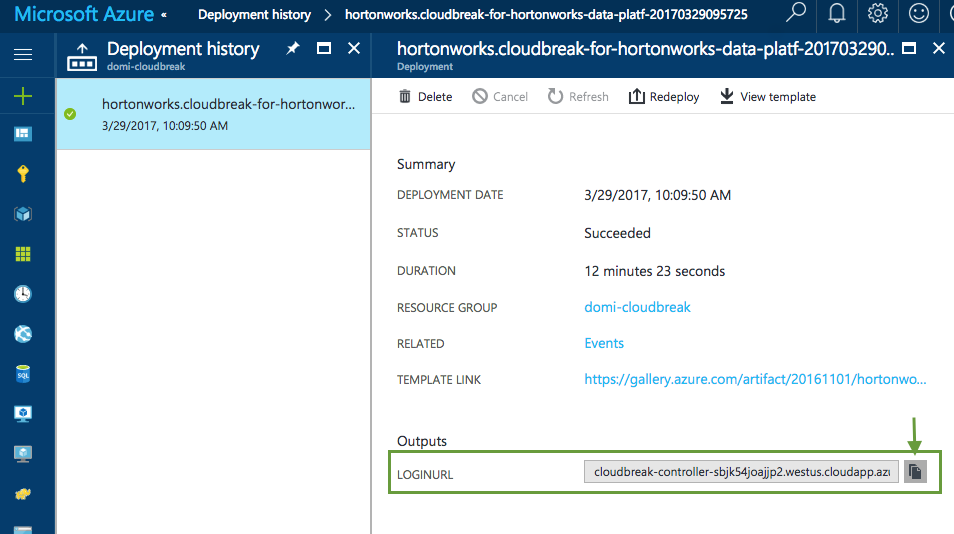
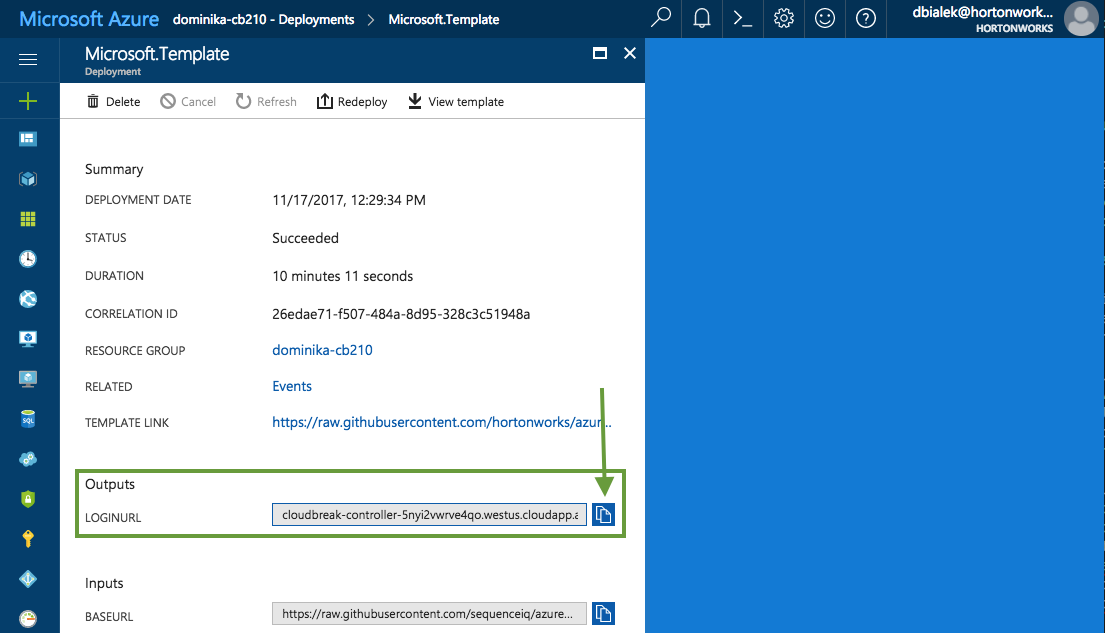
Updates

diff --git a/docs/images.md b/docs/images.md
@@ -43,10 +43,10 @@ This repository includes instructions and scripts to help you build custom image
 
 **(Option 1) Image Catalog on the Cloudbreak VM**
 
-Once you've built the custom images, create the `custom-image-catalog.json` file and save it on your Cloudbreak machine in the `/var/lib/cloudbreak-deployment/etc` directory. The etc directory does not exist by default so you must create it. For example:
+Once you've built the custom images, create the `custom-image-catalog.json` file and save it on your Cloudbreak machine in the `/var/lib/cloudbreak-deployment/etc` directory. For example:
 
-<pre>cd /var/lib/cloudbreak-deployment
-mkdir etc
+<pre>sudo su 
+cd /var/lib/cloudbreak-deployment/etc 
 vi custom-image-catalog.json</pre>
 
 The structure of the image catalog JSON file file and an example image catalog JSON file are provided below. 
@@ -201,15 +201,17 @@ Now that you have created your image catalog JSON file, register it with your Cl
 
 **Steps**
 
-1. On the Cloudbreak machine, navigate to the Cloudbreak deployment directory:  
-    cd /var/lib/cloudbreak-deployment    
+1. On the Cloudbreak machine, switch to the root user:  
+    `sudo su`  
+2. navigate to the Cloudbreak deployment directory:  
+    `cd /var/lib/cloudbreak-deployment`    
 2. Edit the Profile file:     
-    vi Profile      
+    `vi Profile`      
 2. Add `export CB_IMAGE_CATALOG_URL` to the file and set it to the location of your JSON file which declares your custom images. Its value can be:
     * A **URL** of a remote file that is reachable by Cloudbreak through HTTP/HTTPS or    
     * A **PATH** to the file, relative to the /var/lib/cloudbreak-deployment/etc directory on the Cloudbreak host. For example: `export CB_IMAGE_CATALOG_URL=custom-image-catalog.json`    
 3. Save the Profile file.  
-4. Restart Cloudbreak.
+4. Restart Cloudbreak using `cbd restart`.
 
 
 ### Select a Custom Image When Creating a Cluster
@@ -231,7 +233,7 @@ In the CLI, to use the custom image when creating a cluster, add the "ImageId" p
 
 ### Reverting to Default Images
 
-To revert to the default images, remove the `export CB_IMAGE_CATALOG_URL=custom-image-catalog.json` entry that you added when [registering custom images](#register-custom-images) and then restart Cloudbreak.  
+To revert to the default images, switch to the root user, remove the `export CB_IMAGE_CATALOG_URL=custom-image-catalog.json` entry that you added when [registering custom images](#register-custom-images) and then restart Cloudbreak.  
 
 
 

diff --git a/docs/azure-launch.md b/docs/azure-launch.md
@@ -137,7 +137,7 @@ Log in to the Cloudbreak UI using the following steps.
 
     > This only works right after deployment. At other times, you can find your resource group by selecting **Resource Groups** from the service menu and then finding your resource group by name.
 
-2. Once you've navigated to your resource group, click on **Deployments** and then click on **hortonworks.cloudbreal-for-hortonworks-data-platf-...**:
+2. Once you've navigated to your resource group, click on **Deployments** and then click on **Microsoft.Template**:
 
     <a href="../images/azure-resource-find.png" target="_blank" title="click to enlarge"><img src="../images/azure-resource-find.png" width="650" title="Azure Portal"></a> 
 

diff --git a/docs/releasenotes.md b/docs/releasenotes.md
@@ -168,3 +168,11 @@ After you stopped your cluster, you may see the following message in the *Event 
 *Workaround*: If the cluster status is "Stopped" and the preceding messages in the *Event History* confirm that the cluster has been stopped, you can ignore this message.    
 ____________________________
 
+
+##### (BUG-?????) Permissions Error When Using Cbd  
+
+Permissions Error When Using `cbd`.
+
+*Workaround*: You must assume root access: `sudo su` before using `cbd`.   
+____________________________
+
